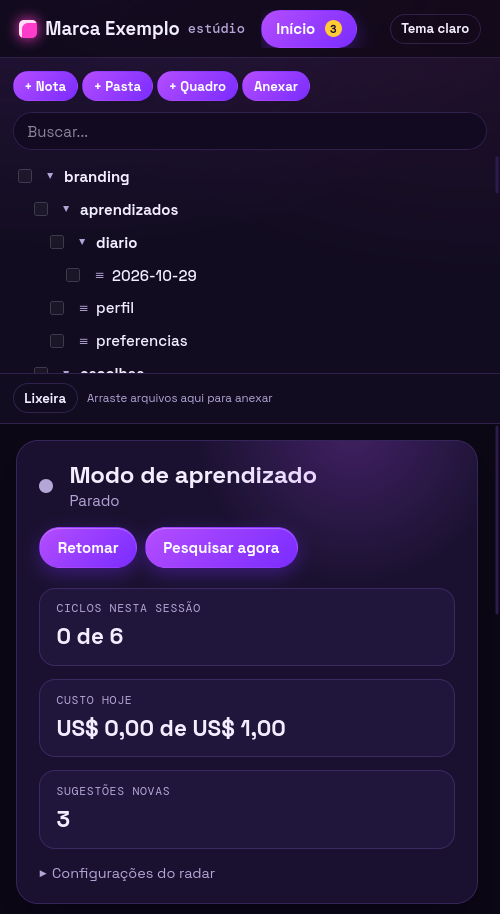
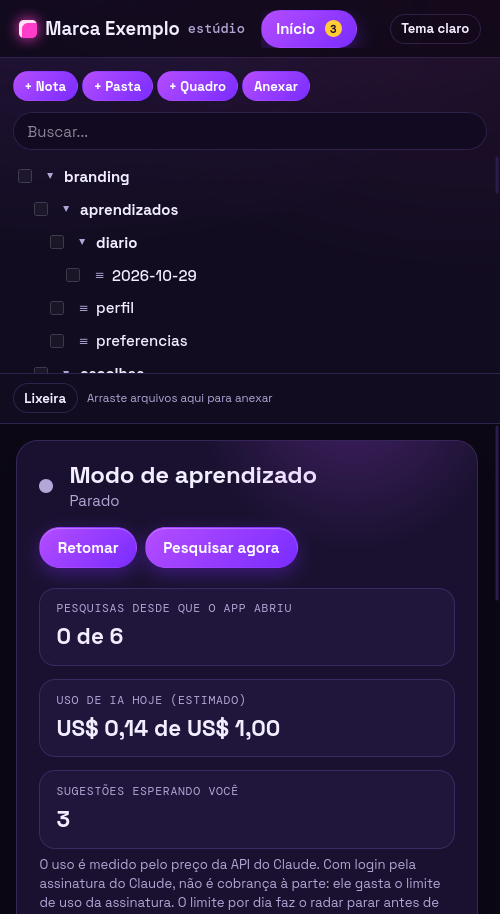
Clarify learning mode labels
Rename 'Custo hoje' to 'Uso de IA hoje (estimado)' and add a note explaining the value follows Claude API pricing and, when logged in with a Claude subscription, uses the subscription's usage limit instead of being billed separately. Rename cycles to searches and the daily cap to a daily usage limit. Update help text, README and screenshots.

diff --git a/web/app/src/componentes/Inicio.tsx b/web/app/src/componentes/Inicio.tsx
@@ -15,8 +15,8 @@ interface Props {
 }
 
 const SITUACAO: Record<EstadoRadar['situacao'], string> = {
-  parado: 'Parado', rodando: 'Aprendendo agora...', aguardando: 'Aguardando o próximo ciclo', pausado: 'Pausado',
-  limite: 'No limite de hoje', erro: 'Deu erro no último ciclo',
+  parado: 'Parado', rodando: 'Pesquisando agora...', aguardando: 'Esperando a próxima pesquisa', pausado: 'Pausado',
+  limite: 'Parou: chegou ao limite de hoje', erro: 'A última pesquisa deu erro',
 };
 
 export const reais = (v: number) => `US$ ${v.toFixed(2).replace('.', ',')}`;
@@ -43,23 +43,25 @@ export function Inicio({ radar, sugestoes, config, aoPausar, aoRetomar, aoAgora,
           </div>
         </div>
         <dl className="numeros">
-          <div><dt>Ciclos nesta sessão</dt><dd>{radar.ciclosNaSessao}{config ? ` de ${config.maxCiclosPorSessao}` : ''}</dd></div>
-          <div><dt>Custo hoje</dt><dd>{reais(radar.custoHoje)}{config ? ` de ${reais(config.tetoDiarioUsd)}` : ''}</dd></div>
-          <div><dt>Sugestões novas</dt><dd>{novas.length}</dd></div>
+          <div><dt>Pesquisas desde que o app abriu</dt><dd>{radar.ciclosNaSessao}{config ? ` de ${config.maxCiclosPorSessao}` : ''}</dd></div>
+          <div><dt>Uso de IA hoje (estimado)</dt><dd>{reais(radar.custoHoje)}{config ? ` de ${reais(config.tetoDiarioUsd)}` : ''}</dd></div>
+          <div><dt>Sugestões esperando você</dt><dd>{novas.length}</dd></div>
         </dl>
+        <p className="suave nota-uso">O uso é medido pelo preço da API do Claude. Com login pela assinatura do Claude, não é cobrança à parte:
+          ele gasta o limite de uso da assinatura. O limite por dia faz o radar parar antes de gastar demais.</p>
         {radar.ultimoErro && <p className="erro-texto">{radar.ultimoErro}</p>}
         {radar.ultimasDescobertas.length > 0 && (
-          <p className="descobertas">Último ciclo: {radar.ultimasDescobertas.slice(0, 6).map((c) => (
+          <p className="descobertas">A última pesquisa trouxe: {radar.ultimasDescobertas.slice(0, 6).map((c) => (
             <button key={c} type="button" className="ligacao" onClick={() => aoAbrir?.(c)}>{c.split('/').pop()!.replace(/\.md$/, '')}</button>))}
           </p>
         )}
         {config && aoConfig && (
           <details className="config">
             <summary>Configurações do radar</summary>
-            <label><input type="checkbox" checked={config.ativoAoAbrir} onChange={(e) => aoConfig({ ativoAoAbrir: e.target.checked })} /> Começar ao abrir o app</label>
-            <label>Intervalo (min) <input type="number" min={1} max={1440} value={config.intervaloMin} onChange={(e) => aoConfig({ intervaloMin: Number(e.target.value) })} /></label>
-            <label>Ciclos por sessão <input type="number" min={1} max={100} value={config.maxCiclosPorSessao} onChange={(e) => aoConfig({ maxCiclosPorSessao: Number(e.target.value) })} /></label>
-            <label>Teto por dia (US$) <input type="number" min={0} max={50} step={0.1} value={config.tetoDiarioUsd} onChange={(e) => aoConfig({ tetoDiarioUsd: Number(e.target.value) })} /></label>
+            <label><input type="checkbox" checked={config.ativoAoAbrir} onChange={(e) => aoConfig({ ativoAoAbrir: e.target.checked })} /> Pesquisar sozinho quando o app abrir</label>
+            <label>Minutos entre uma pesquisa e outra <input type="number" min={1} max={1440} value={config.intervaloMin} onChange={(e) => aoConfig({ intervaloMin: Number(e.target.value) })} /></label>
+            <label>Máximo de pesquisas cada vez que o app abre <input type="number" min={1} max={100} value={config.maxCiclosPorSessao} onChange={(e) => aoConfig({ maxCiclosPorSessao: Number(e.target.value) })} /></label>
+            <label>Limite de uso de IA por dia (US$ estimado) <input type="number" min={0} max={50} step={0.1} value={config.tetoDiarioUsd} onChange={(e) => aoConfig({ tetoDiarioUsd: Number(e.target.value) })} /></label>
           </details>
         )}
       </section>

diff --git a/web/app/src/ajuda/conteudo.ts b/web/app/src/ajuda/conteudo.ts
@@ -31,9 +31,9 @@ export const TOPICOS: Topico[] = [
   { id: 'radar', funcao: 'radar', titulo: 'Modo de aprendizado (radar de assuntos)', palavras: 'pesquisa tendencias jargoes web claude',
     resumo: 'O Claude pesquisa na web o que está em alta em tecnologia, explica os jargões e sugere vídeos.',
     passos: ['Ele começa sozinho quando o app abre (dá para desligar nas configurações do radar, na aba Início).',
-      'A cada ciclo, escreve notas em conhecimento/: tendências (com fontes e datas), jargões (com pronúncia) e sugestões.',
+      'A cada pesquisa, escreve notas em conhecimento/: tendências (com fontes e datas), jargões (com pronúncia) e sugestões.',
       'Para pesquisar na hora, clique em "Pesquisar agora".',
-      'O custo de cada ciclo aparece na tela; há um teto por dia e um limite de ciclos por sessão.'],
+      'O uso de IA de cada pesquisa aparece na tela, estimado pelo preço da API do Claude. Com login pela assinatura do Claude, não é cobrança à parte: gasta o limite de uso da assinatura. Há um limite de uso por dia e um máximo de pesquisas cada vez que o app abre.'],
     dica: 'Tendência marcada como "proposta" é ideia editorial, não fato: confira antes de afirmar.' },
   { id: 'pausar-radar', funcao: 'pausar-radar', titulo: 'Pausar ou retomar o aprendizado', palavras: 'parar desligar radar',
     resumo: 'Você pode pausar o modo de aprendizado a qualquer momento.',
@@ -182,7 +182,7 @@ export const TOPICOS: Topico[] = [
     passos: ['"Não consegui abrir o Claude Code": instale o Claude Code e faça login no terminal (claude).',
       '"Falta o ambiente de voz": siga amostras/README.md para criar os ambientes de voz.',
       'Prévia não aparece: confira se o Python e o ffmpeg estão instalados.',
-      'Radar em "limite": o teto de custo do dia ou de ciclos da sessão foi atingido; aumente nas configurações.'] },
+      'Radar "chegou ao limite de hoje": bateu o limite de uso de IA do dia ou o máximo de pesquisas; aumente nas configurações do radar.'] },
 ];
 
 /** Busca sem acento e sem maiúscula; todas as palavras precisam aparecer; quem casa no título vem primeiro. */

diff --git a/web/app/src/componentes/componentes.test.tsx b/web/app/src/componentes/componentes.test.tsx
@@ -51,8 +51,12 @@ describe('Inicio', () => {
     const aoPausar = vi.fn();
     render(<Inicio radar={{ situacao: 'aguardando', ciclosNaSessao: 2, custoHoje: 0.04, proximoEm: '2026-10-29T10:20:00Z', ultimasDescobertas: [] }}
       sugestoes={sugestoes} aoPausar={aoPausar} aoRetomar={vi.fn()} aoAgora={vi.fn()} aoCriarQuadro={vi.fn()} aoDescartar={vi.fn()} />);
-    expect(screen.getByText(/aprendendo|aguardando/i)).toBeTruthy();
     expect(screen.getByText(/US\$ 0,04/)).toBeTruthy();
+    expect(screen.getByText(/Uso de IA hoje/)).toBeTruthy();
+    expect(screen.getByText(/Pesquisas desde que o app abriu/)).toBeTruthy();
+    expect(screen.getByText(/Esperando a próxima pesquisa/)).toBeTruthy();
+    // o valor é estimativa pelo preço da API: com a assinatura do Claude, não é cobrança à parte
+    expect(screen.getByText(/não é cobrança à parte/)).toBeTruthy();
     await usuario.click(screen.getByRole('button', { name: /pausar/i }));
     expect(aoPausar).toHaveBeenCalled();
   });
@@ -65,6 +69,7 @@ describe('Inicio', () => {
       aoPausar={vi.fn()} aoRetomar={aoRetomar} aoAgora={vi.fn()} aoCriarQuadro={aoCriarQuadro} aoDescartar={vi.fn()} />);
     await usuario.click(screen.getByRole('button', { name: /retomar/i }));
     expect(aoRetomar).toHaveBeenCalled();
+    expect(screen.queryByText(/Custo hoje|Ciclos nesta sessão/)).toBeNull();
     const card = screen.getByText('API é o balcão').closest('article')!;
     await usuario.click(within(card as HTMLElement).getByRole('button', { name: /carrossel/i }));
     expect(aoCriarQuadro).toHaveBeenCalledWith('conhecimento/sugestoes/api.md', 'carrossel');

diff --git a/web/app/src/estilo.css b/web/app/src/estilo.css
@@ -210,6 +210,7 @@ input[type='checkbox'], input[type='radio'] { width: auto; accent-color: var(--r
 .numeros { display: grid; grid-template-columns: repeat(3, 1fr); gap: 0.8rem; margin: 1.2rem 0 0.4rem; }
 .numeros div { background: var(--superficie-2); border-radius: 16px; padding: 0.7rem 1rem; border: 1px solid var(--borda); }
 .numeros dt { font-family: var(--mono); font-size: 0.72rem; text-transform: uppercase; color: var(--texto-suave); letter-spacing: 0.06em; }
+.nota-uso { font-size: 0.82rem; margin: 0.2rem 0 0.4rem; line-height: 1.45; }
 .numeros dd { margin: 0.2rem 0 0; font-size: 1.4rem; font-weight: 700; }
 .descobertas { margin-top: 0.6rem; font-size: 0.9rem; }
 .descobertas .ligacao { margin: 0 0.5rem; }

diff --git a/CLAUDE.md b/CLAUDE.md
@@ -154,6 +154,8 @@ Fechadas (29/10/2026), estúdio de conteúdo no app (respostas do usuário: 1a, 
 
 ## Onde paramos
 
+29/10/2026: rótulos do modo de aprendizado reescritos para leigos ("Uso de IA hoje (estimado)", "Pesquisas desde que o app abriu", limite de uso por dia) com nota explicando que o valor é estimativa pelo preço da API e, com login pela assinatura, gasta o limite da assinatura em vez de ser cobrado. Conferido: login do `claude` é claude.ai, sem ANTHROPIC_API_KEY. Prints atualizados. Ainda sem commit.
+
 29/10/2026: README do GitHub atualizado com 9 telas do estúdio, capturadas numa cópia de demonstração (marca fictícia "Marca Exemplo" e robozinho de exemplo), nunca no conteúdo real. Para refazer: docs/prints/README.md (montar_demo.py + capturar.mjs, Firefox headless via geckodriver). O motor e o servidor aceitam BRAND_STUDIO_CONTEUDO, BRAND_STUDIO_SAIDA e BRAND_STUDIO_PERSONAGEM; sem personagem próprio, o motor usa amostras/personagem-exemplo/. Corrigido com teste: custo do dia zerado no radar desligado. Novas pendências no README: título do quadro cortado no cabeçalho e abas sem indicação de rolagem em janela estreita.
 
 29/10/2026: marca separada do repositório a pedido do usuário. O nome da marca vem de `conteudo/branding/marca.json` (local); notas iniciais de branding viraram modelos neutros; prompts dizem "a marca" e recebem o nome pela memória. Funções gerais do motor saíram dos scripts das amostras (`amostras/voz.py`, `SOM_TRANSICAO` em `efeitos.py`). Histórico do GitHub reescrito para tirar personagem, roteiros, referências e decisões da marca (backup completo em `backup/`, fora do git). Detalhes da produção e pendências da marca em `CLAUDE.local.md`; correções pendentes do app no README.
